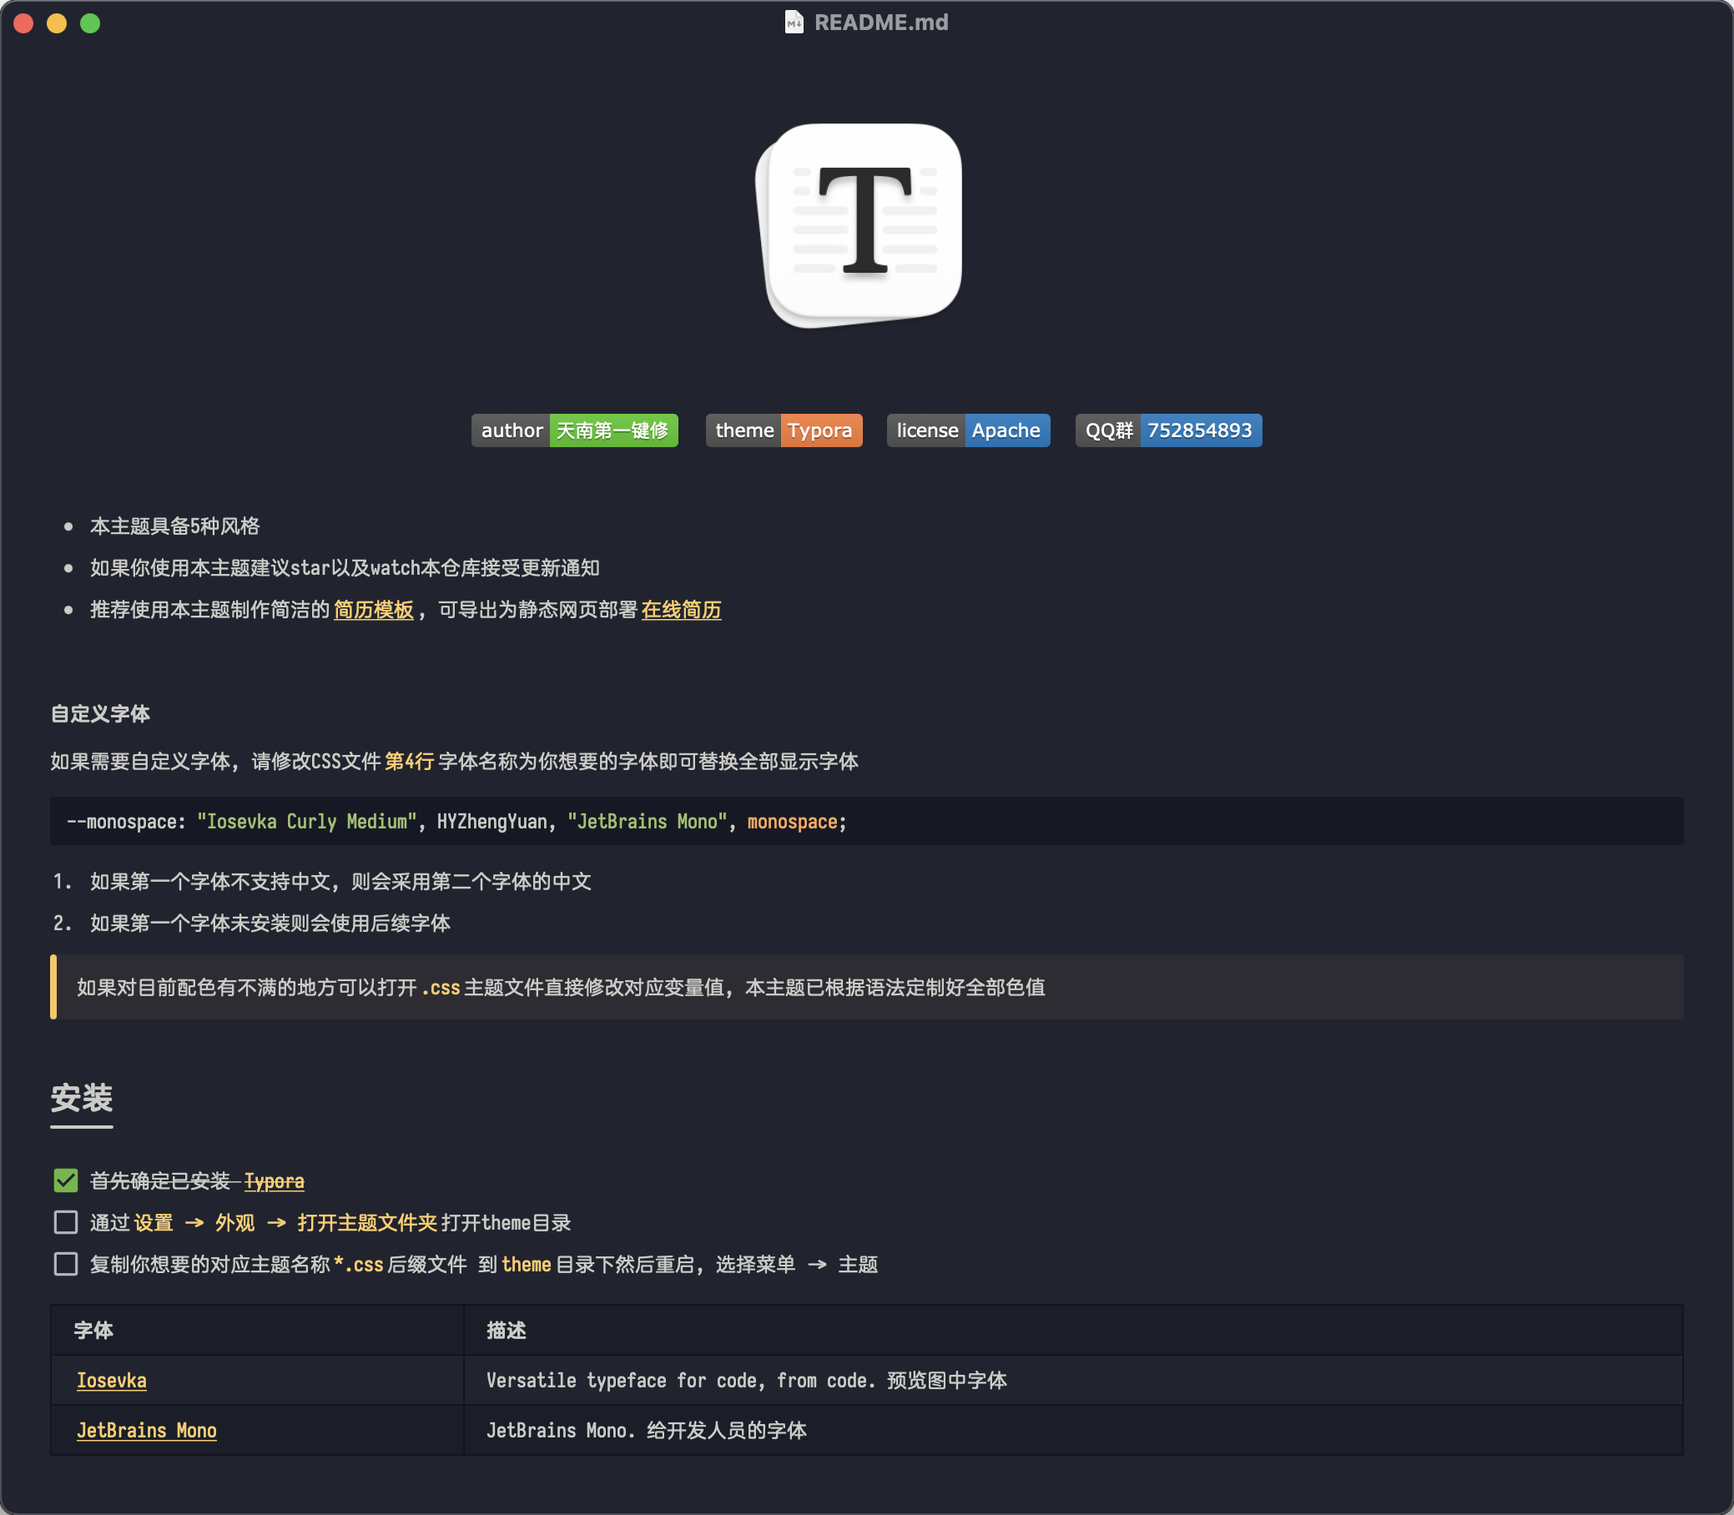
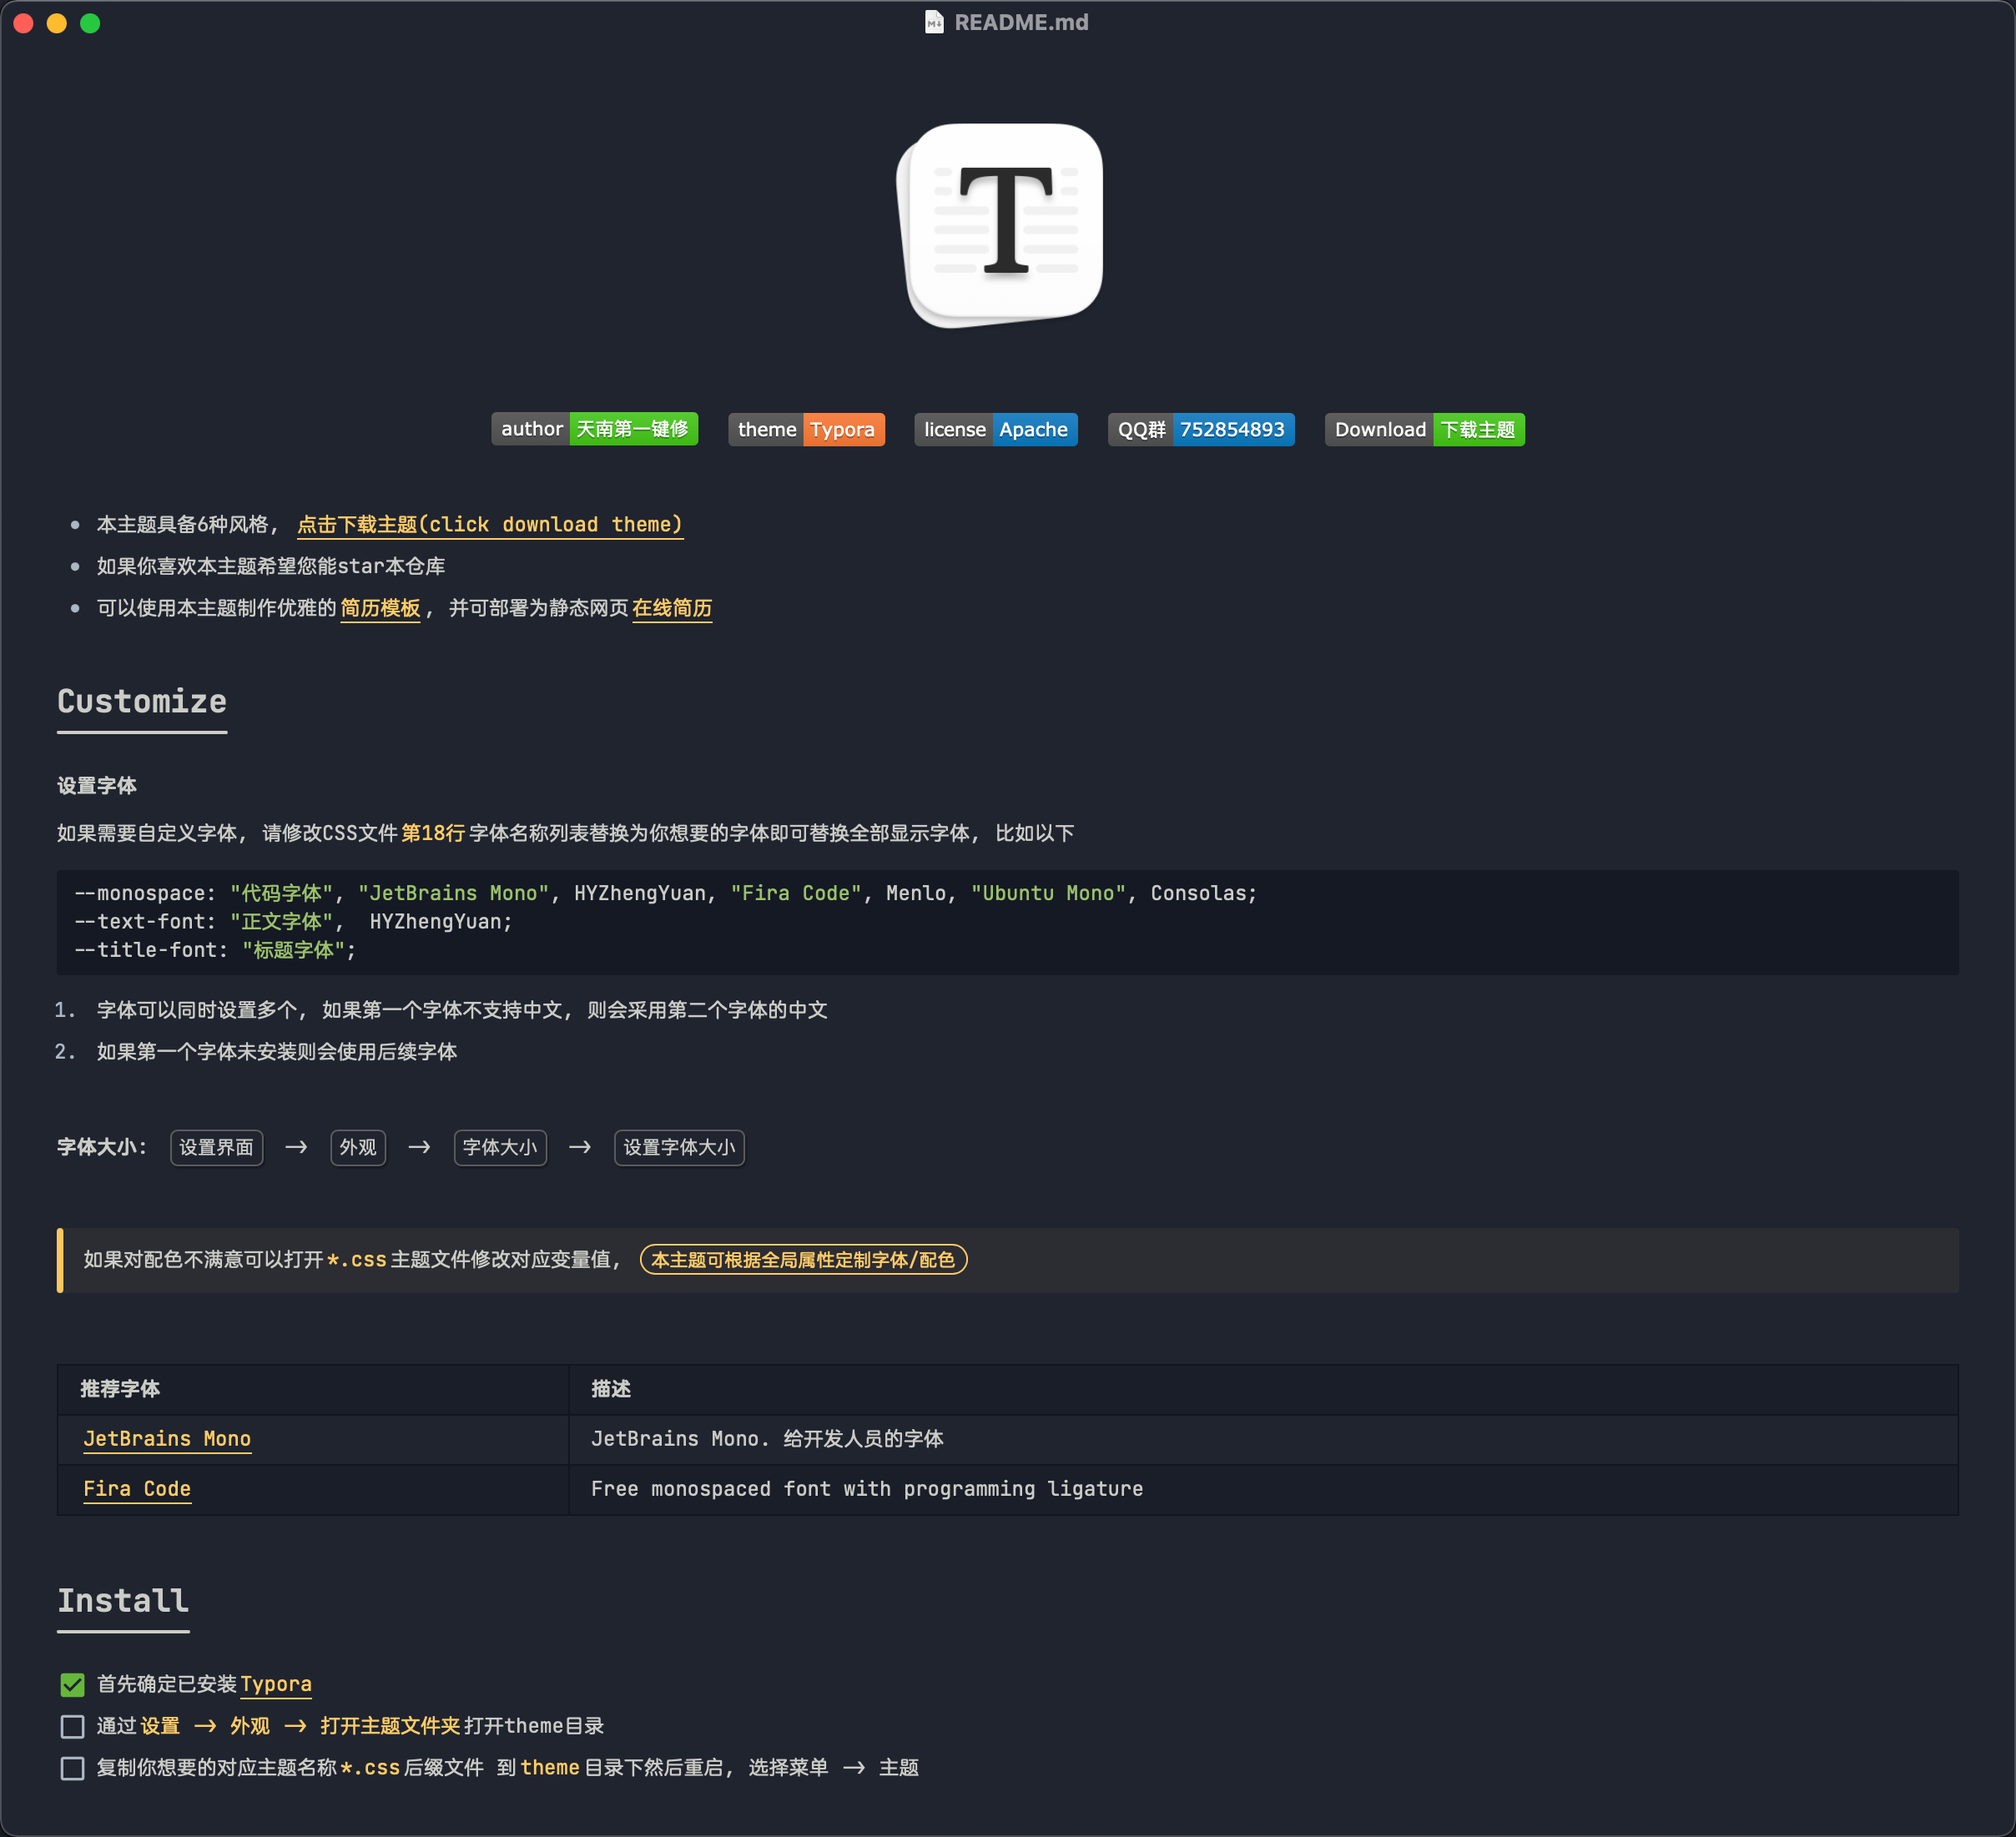
更新预览图

diff --git a/README.md b/README.md
@@ -12,10 +12,9 @@
 <a href="https://codeload.github.com/liangjingkanji/DrakeTyporaTheme/zip/refs/heads/master"><img src="https://img.shields.io/badge/Download-%E4%B8%8B%E8%BD%BD%E4%B8%BB%E9%A2%98-brightgreen"/></a>
 </p><br>
 
-- 本主题具备6种风格, [点击下载主题(click download theme)](https://codeload.github.com/liangjingkanji/DrakeTyporaTheme/zip/refs/heads/master)
+- 本主题具备<kbd>7</kbd>种风格, [点击下载主题(click download theme)](https://codeload.github.com/liangjingkanji/DrakeTyporaTheme/zip/refs/heads/master)
 - 如果你喜欢本主题希望您能star本仓库
-- 可以使用本主题制作优雅的[简历模板](https://github.com/liangjingkanji/Resume-Template),
-  并可部署为静态网页[在线简历](https://liangjingkanji.github.io/Resume-Template/)
+- 可以使用本主题制作优雅的[简历模板](https://github.com/liangjingkanji/Resume-Template), 并可部署为静态网页[在线简历](https://liangjingkanji.github.io/Resume-Template/)
 
 
 ## Customize
@@ -34,42 +33,45 @@
 2. 如果第一个字体未安装则会使用后续字体
 
 
+
+**字体大小**: <kbd>设置界面</kbd> -> <kbd>外观</kbd> -> <kbd>字体大小</kbd> -> <kbd>设置字体大小</kbd>
+
+
+
+> 如果对配色不满意可以打开`*.css`主题文件修改对应变量值, ==本主题可根据全局属性定制字体/配色==
+
+
+
 | 推荐字体                                                   | 描述                                           |
 | ---------------------------------------------------------- | ---------------------------------------------- |
 | [JetBrains Mono](https://www.jetbrains.com/zh-cn/lp/mono/) | JetBrains Mono. 给开发人员的字体               |
 | [Fira Code](https://github.com/tonsky/FiraCode)            | Free monospaced font with programming ligature |
 
-**设置字体大小**
-
-打开设置界面 -> 外观 -> 字体大小 -> 自定义字体大小
-
-**设置配色**
-
-如果对配色不满意可以打开`*.css`主题文件修改对应变量值, 本主题已根据语法定制好字体/配色
-
 
 ## Install
 
-- [x] 首先确定已安装 [Typora](https://typora.io/)
+- [x] 首先确定已安装[Typora](https://typora.io/)
 
 - [ ] 通过`设置 -> 外观 -> 打开主题文件夹`打开theme目录
 
 - [ ] 复制你想要的对应主题名称`*.css`后缀文件 到`theme`目录下然后重启, 选择菜单 -> 主题
 
-<br>
+
 
 ## Preview
 
 提供多种配置预览, 点击查看高清大图
 
-| 主题名称     | 预览图                                                       |
+| 主题名称       | 预览图                                                       |
 | ------------ | ------------------------------------------------------------ |
-| drake        | <img src="https://raw.githubusercontent.com/liangjingkanji/DrakeTyporaTheme/master/img/thumbnail.png" width="500"/> |
-| drake-dark   | <img src="https://raw.githubusercontent.com/liangjingkanji/DrakeTyporaTheme/master/img/thumbnail-dark.png" width="500"/> |
-| drake-purple | <img src="https://raw.githubusercontent.com/liangjingkanji/DrakeTyporaTheme/master/img/thumbnail-purple.png" width="500"/> |
-| drake-ayu | <img src="https://raw.githubusercontent.com/liangjingkanji/DrakeTyporaTheme/master/img/thumbnail-ayu.png" width="500"/> |
 | drake-light  | <img src="https://raw.githubusercontent.com/liangjingkanji/DrakeTyporaTheme/master/img/thumbnail-light.png" width="500"/> |
 | drake-vue    | <img src="https://raw.githubusercontent.com/liangjingkanji/DrakeTyporaTheme/master/img/thumbnail-vue.png" width="500"/> |
+| drake-juejin    | <img src="https://raw.githubusercontent.com/liangjingkanji/DrakeTyporaTheme/master/img/thumbnail-juejin.png" width="500"/> |
+| drake-dark   | <img src="https://raw.githubusercontent.com/liangjingkanji/DrakeTyporaTheme/master/img/thumbnail-dark.png" width="500"/> |
+| drake-purple | <img src="https://raw.githubusercontent.com/liangjingkanji/DrakeTyporaTheme/master/img/thumbnail-purple.png" width="500"/> |
+| drake-ayu    | <img src="https://raw.githubusercontent.com/liangjingkanji/DrakeTyporaTheme/master/img/thumbnail-ayu.png" width="500"/> |
+| drake        | <img src="https://raw.githubusercontent.com/liangjingkanji/DrakeTyporaTheme/master/img/thumbnail.png" width="500"/> |
+
 
 ## License
 
